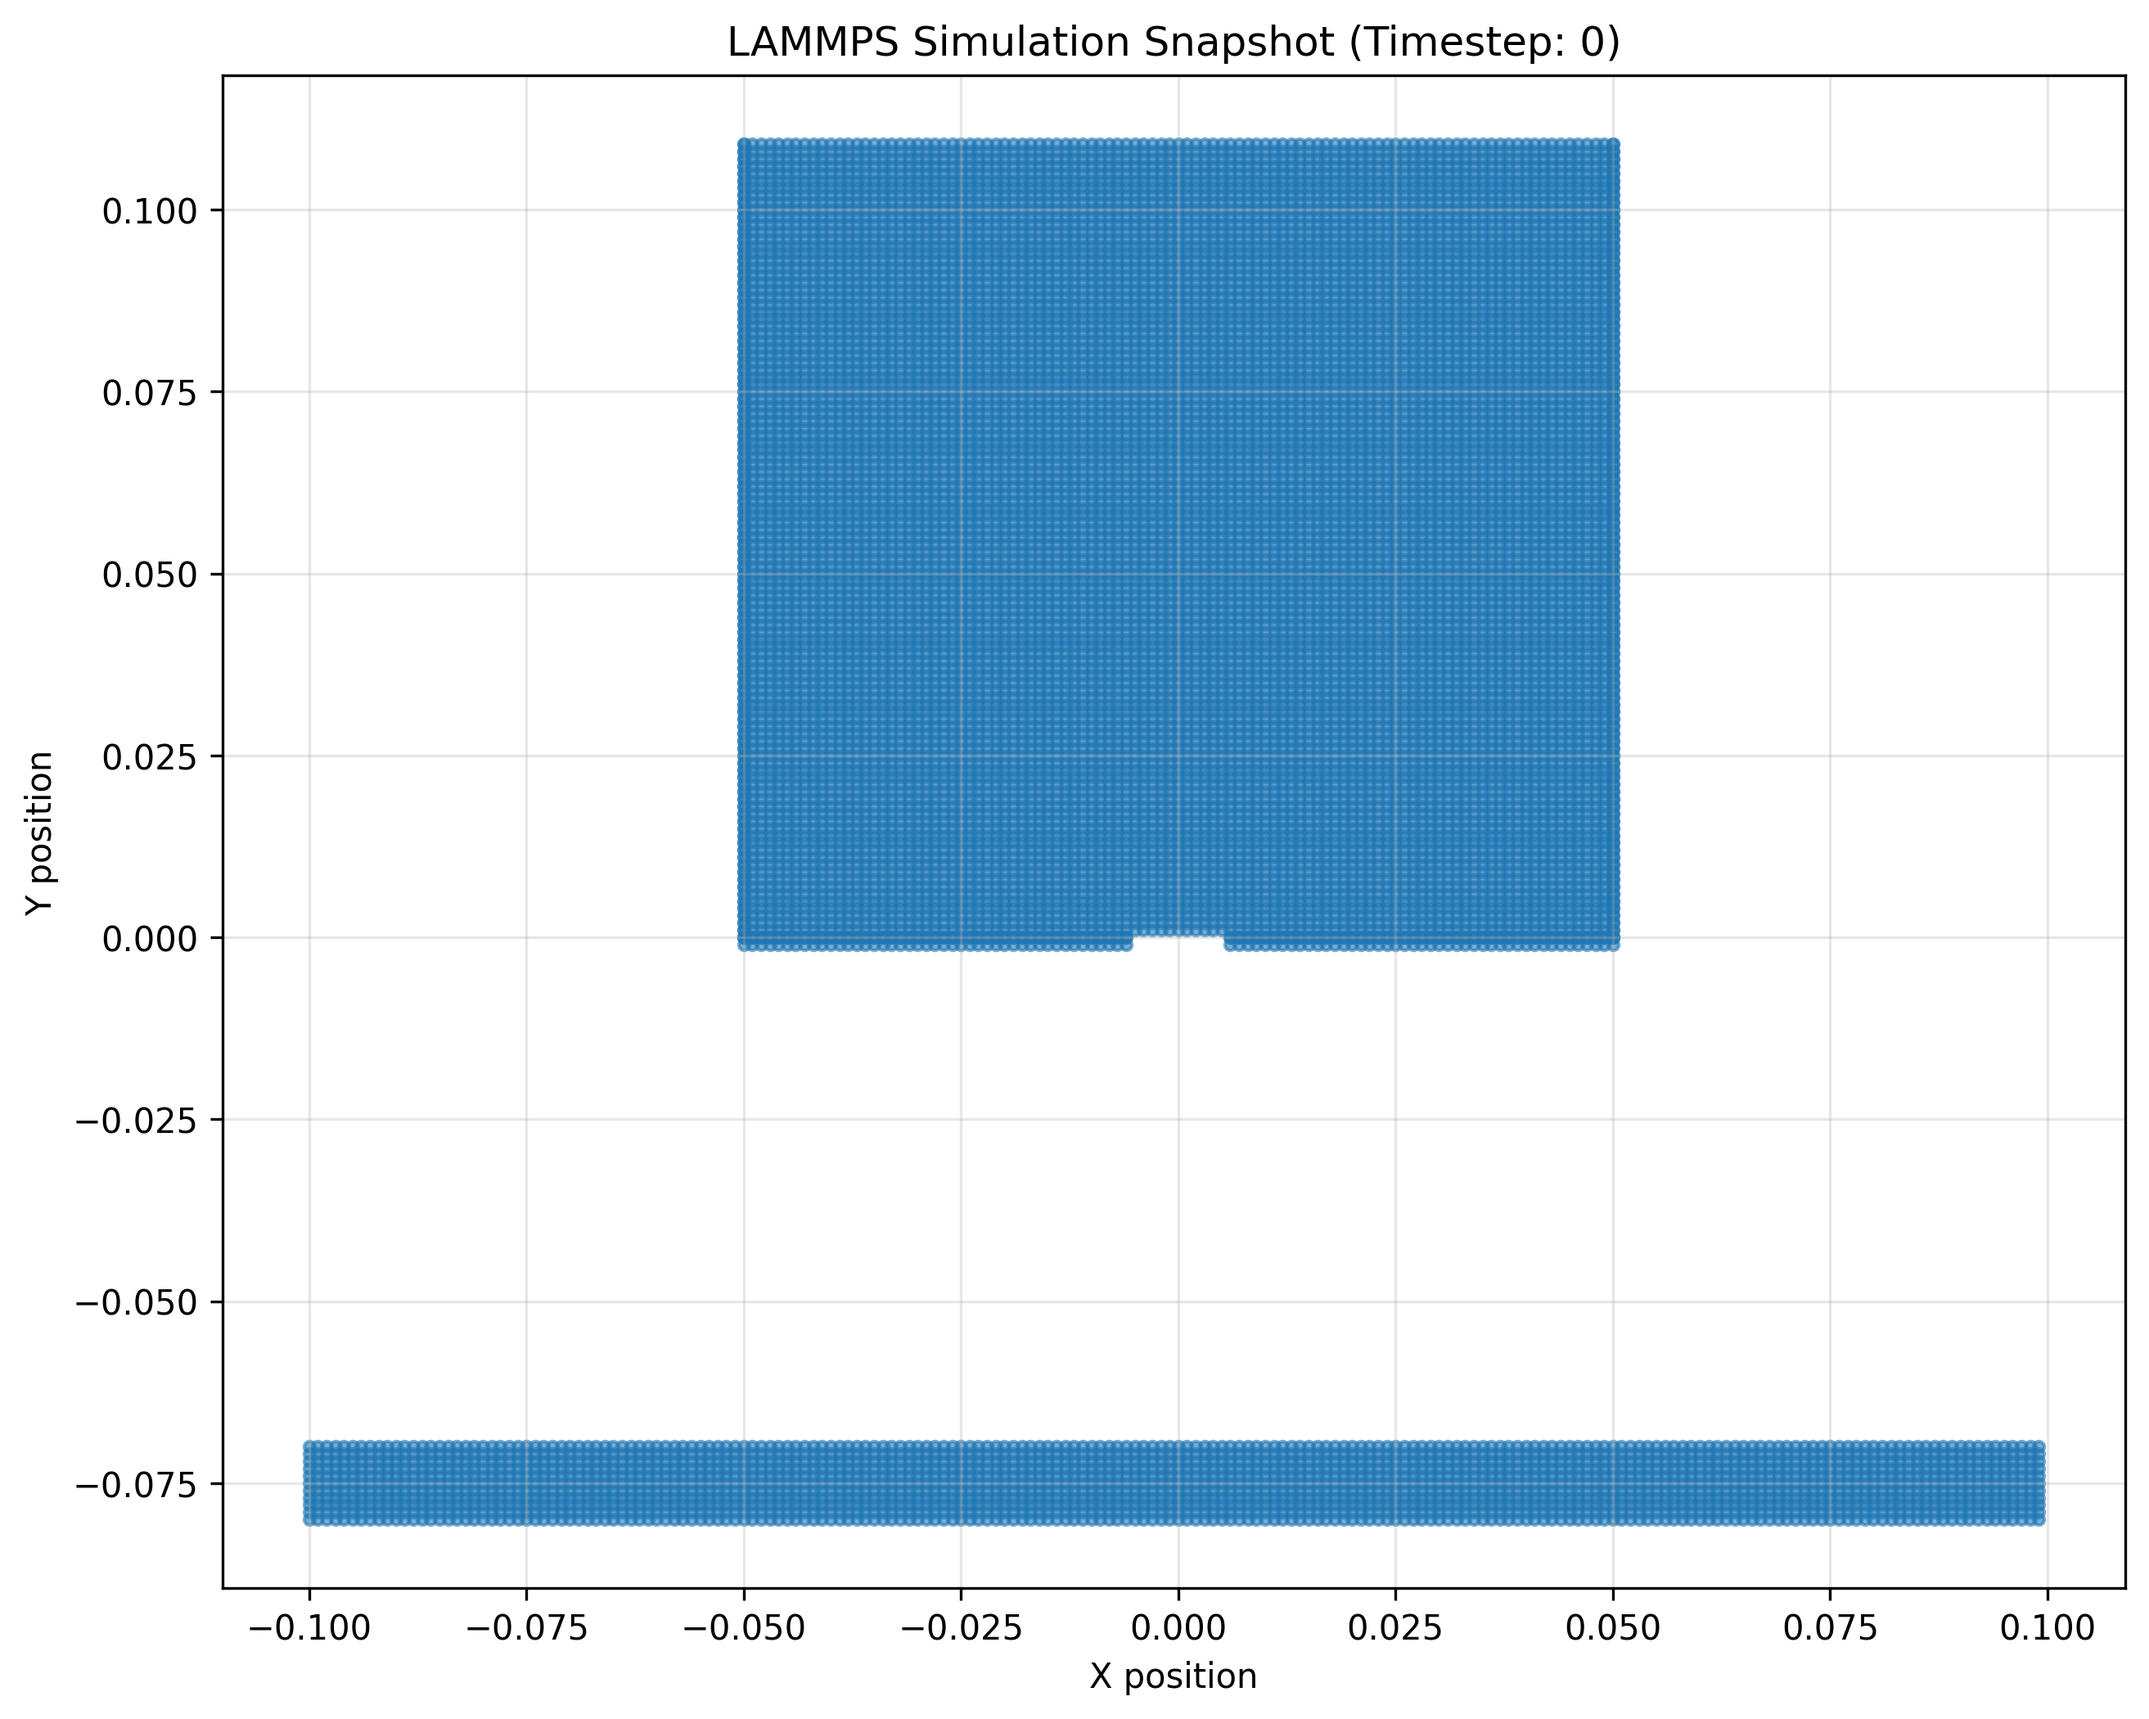
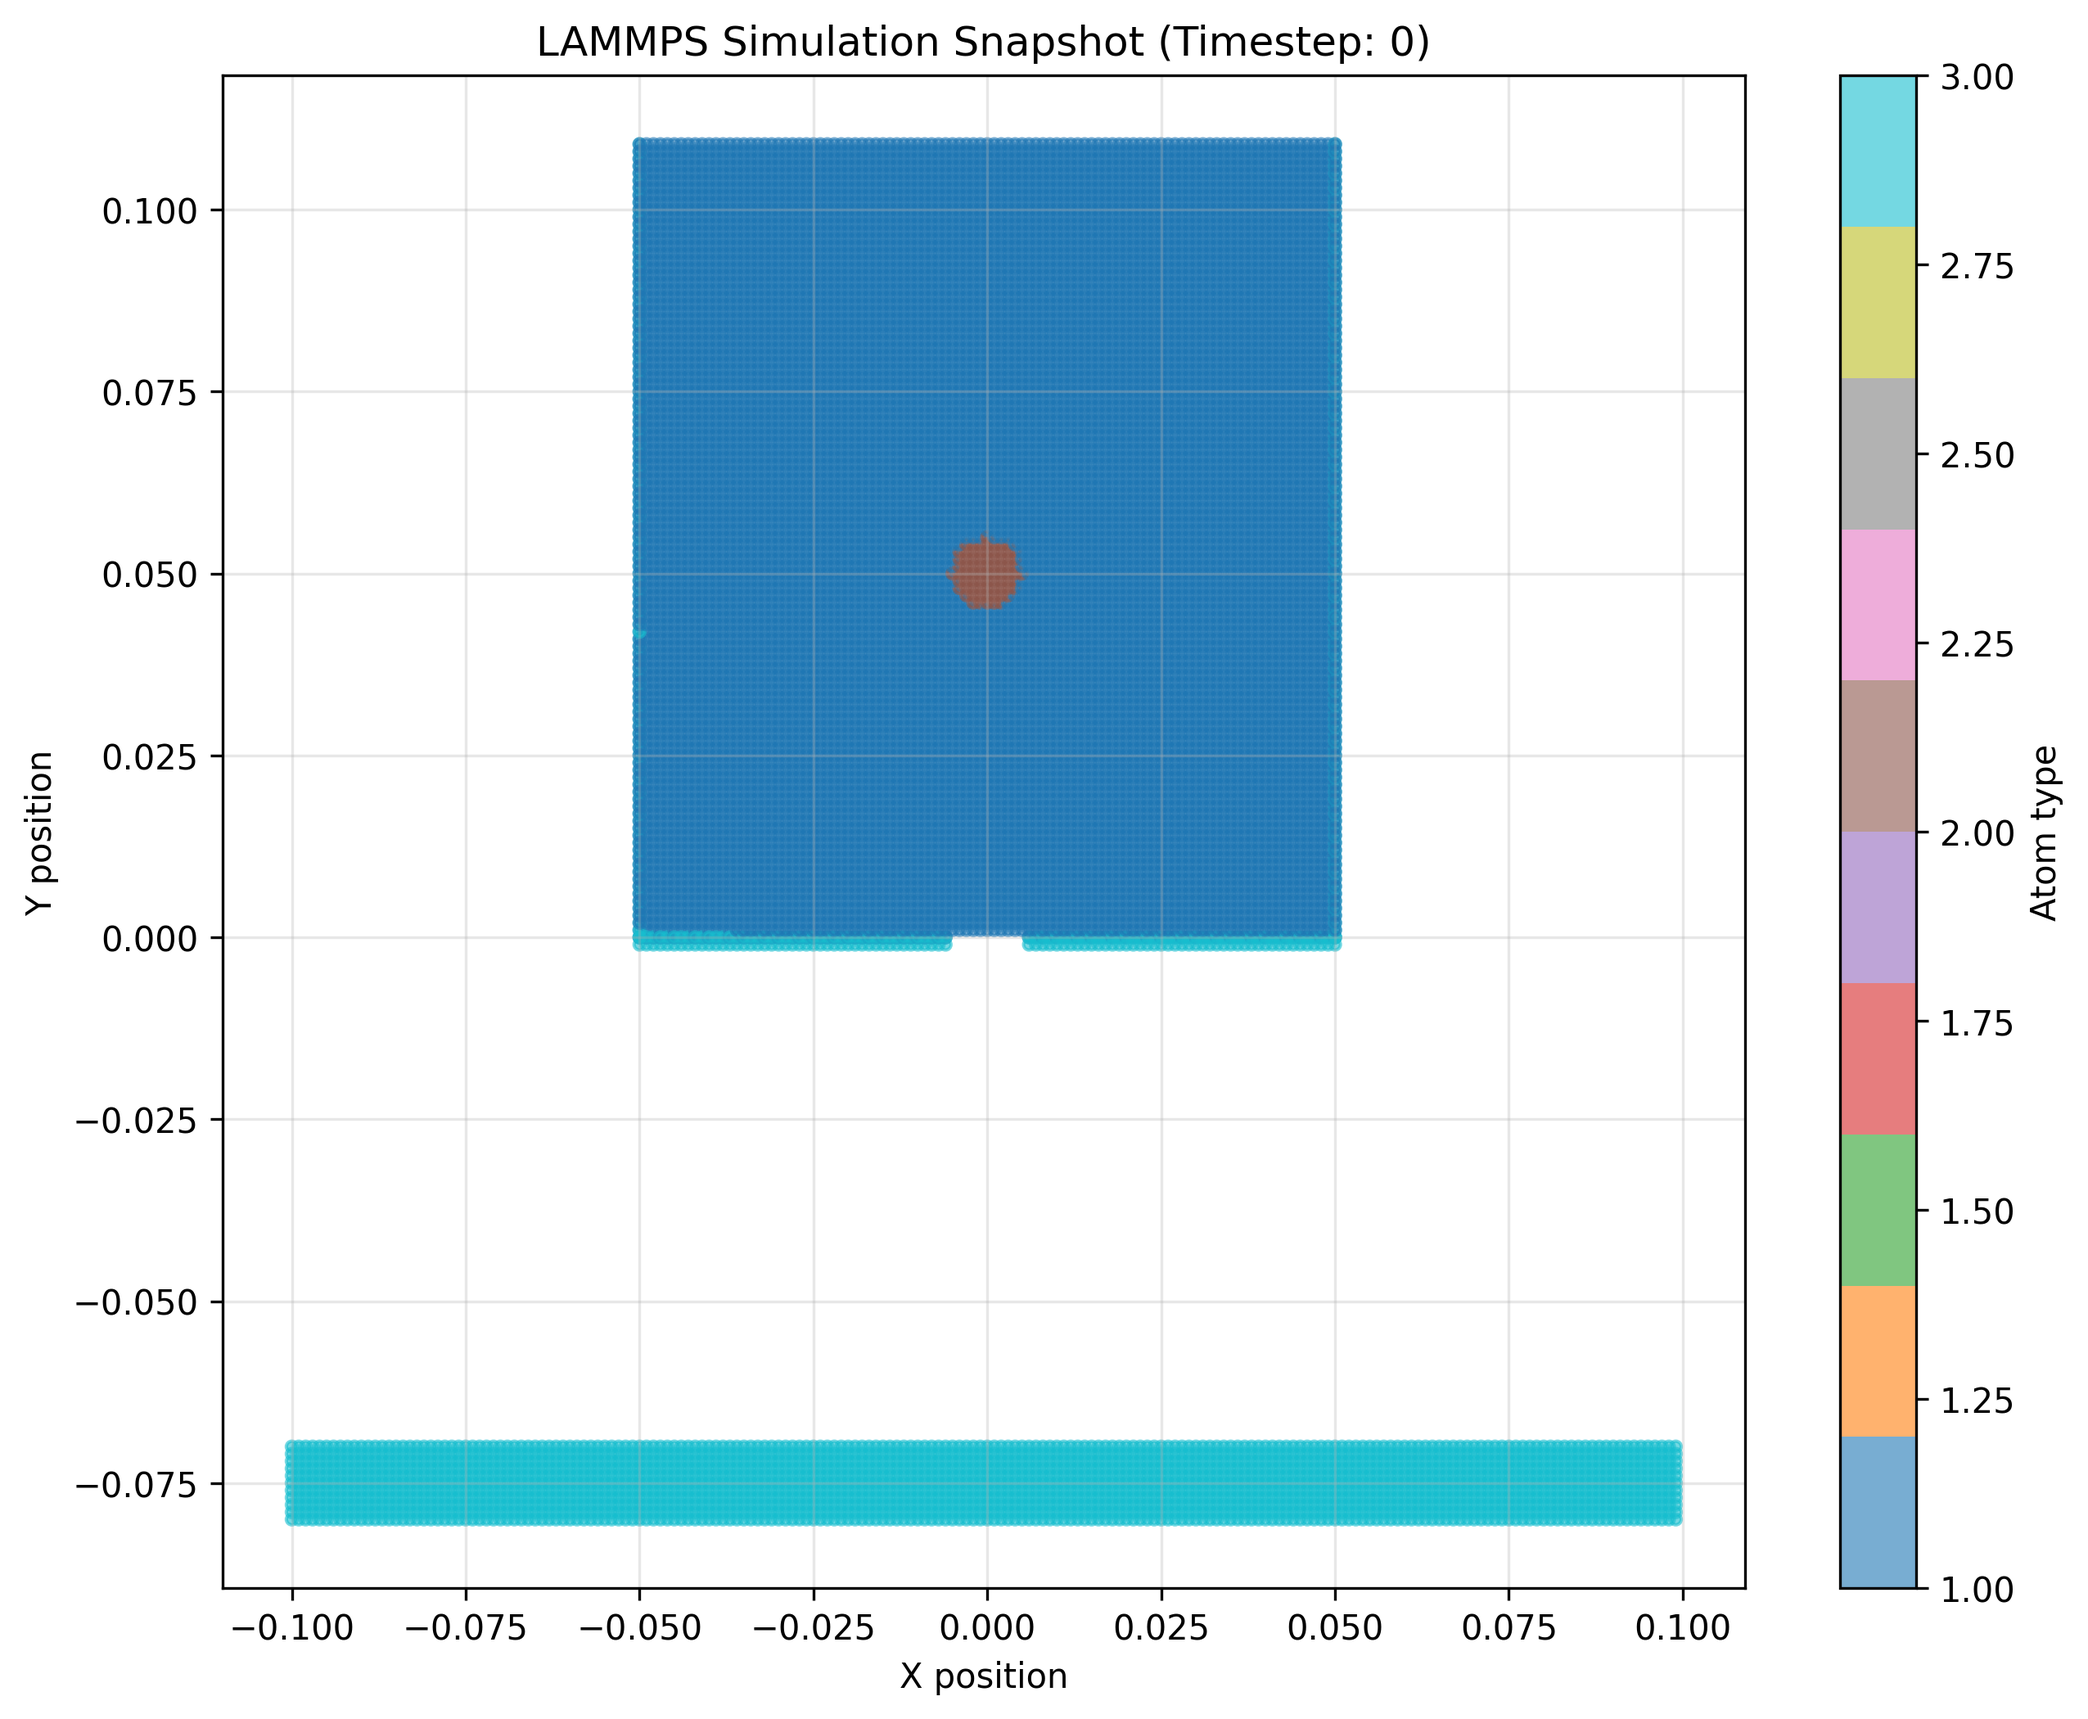
More visualizations

diff --git a/src/explore_data.py b/src/explore_data.py
@@ -1,6 +1,7 @@
 import os
 import numpy as np
 import matplotlib.pyplot as plt
+from matplotlib import animation
 from pathlib import Path
 
 class LAMMPSDumpReader:
@@ -52,7 +53,15 @@ class LAMMPSDumpReader:
         
         # Assuming the first three columns are atom ID, type, x, y, z
         if self.atoms.shape[1] >= 4:  # Make sure we have at least x, y, z coordinates
-            plt.scatter(self.atoms[:, 2], self.atoms[:, 3], s=10, alpha=0.6)
+            x = self.atoms[:, 2]
+            y = self.atoms[:, 3]
+
+            # Color points by atom type when available (no colorbar)
+            if self.atoms.shape[1] >= 2:
+                atom_types = self.atoms[:, 1]
+                plt.scatter(x, y, c=atom_types, s=10, alpha=0.6, cmap="tab10")
+            else:
+                plt.scatter(x, y, s=10, alpha=0.6)
             plt.title(f'LAMMPS Simulation Snapshot (Timestep: {self.timestep})')
             plt.xlabel('X position')
             plt.ylabel('Y position')
@@ -68,33 +77,81 @@ def main():
     # Get the data directory
     data_dir = Path(__file__).parent.parent / 'data'
     
-    # List all LAMMPS dump files
-    dump_files = sorted(list(data_dir.glob('dump.*.LAMMPS')))
+    # List all LAMMPS dump files, sorted by numeric timestep
+    def timestep_from_path(path: Path) -> int:
+        name = path.name
+        try:
+            parts = name.split(".")
+            return int(parts[1])
+        except (IndexError, ValueError):
+            return 0
+
+    dump_files = sorted(data_dir.glob('dump.*.LAMMPS'), key=timestep_from_path)
     
     if not dump_files:
         print("No LAMMPS dump files found in the data directory.")
         return
-    
+
     print(f"Found {len(dump_files)} LAMMPS dump files.")
-    
-    # Read and visualize the first and last frames
-    for filepath in [dump_files[0], dump_files[-1]]:
-        print(f"\nAnalyzing {filepath.name}")
+
+    # Read all frames into memory (timestep, atoms)
+    frames = []
+    for filepath in dump_files:
+        print(f"Analyzing {filepath.name}")
         reader = LAMMPSDumpReader(filepath)
         atoms = reader.read()
         print(f"Timestep: {reader.timestep}")
         print(f"Number of atoms: {reader.natoms}")
         print(f"Box bounds:\n{reader.box_bounds}")
         print(f"Atom data shape: {atoms.shape}")
-        
-        # Create output directory for visualizations
-        output_dir = Path(__file__).parent.parent / 'output'
-        output_dir.mkdir(exist_ok=True)
-        
-        # Save visualization
-        vis_path = output_dir / f"visualization_{filepath.stem}.png"
-        reader.visualize(save_path=str(vis_path))
-        print(f"Visualization saved to {vis_path}")
+        frames.append(reader)
+
+    # Create output directory
+    output_dir = Path(__file__).parent.parent / 'output'
+    output_dir.mkdir(exist_ok=True)
+
+    # Set up animation: ground-truth scatter colored by atom type
+    fig, ax = plt.subplots(figsize=(10, 8))
+
+    def init():
+        ax.clear()
+        ax.set_xlabel('X position')
+        ax.set_ylabel('Y position')
+        ax.grid(True, alpha=0.3)
+        return []
+
+    def update(frame_idx):
+        ax.clear()
+        reader = frames[frame_idx]
+        atoms = reader.atoms
+        if atoms is not None and atoms.shape[1] >= 4:
+            x = atoms[:, 2]
+            y = atoms[:, 3]
+            if atoms.shape[1] >= 2:
+                atom_types = atoms[:, 1]
+                ax.scatter(x, y, c=atom_types, s=10, alpha=0.6, cmap='tab10')
+            else:
+                ax.scatter(x, y, s=10, alpha=0.6)
+            ax.set_title(f"LAMMPS Simulation (Timestep: {reader.timestep})")
+            ax.set_xlabel('X position')
+            ax.set_ylabel('Y position')
+            ax.grid(True, alpha=0.3)
+        return []
+
+    anim = animation.FuncAnimation(
+        fig,
+        update,
+        init_func=init,
+        frames=len(frames),
+        interval=300,
+        blit=False,
+    )
+
+    gif_path = output_dir / 'lammps_simulation.gif'
+    anim.save(gif_path, writer=animation.PillowWriter(fps=4))
+    plt.close(fig)
+
+    print(f"Simulation GIF saved to {gif_path}")
 
 if __name__ == "__main__":
     main()

diff --git a/README.md b/README.md
@@ -62,15 +62,13 @@ The data consists of LAMMPS dump files in the `data` directory. Each file repres
 
 This section provides a visual walkthrough of the project pipeline, from raw LAMMPS data to trained model predictions.
 
-### 1. Raw LAMMPS Data
+### 1. Raw LAMMPS Data (extrusion process)
 
-We start with LAMMPS dump files containing particle positions over time. Here are visualizations of the first and last frames:
+We start with LAMMPS dump files containing particle positions over time.
 
-#### Initial Frame (t=0)
-![Initial Frame](output/visualization_dump.0.png)
+![Simulation GIF](output/lammps_simulation.gif)
 
-#### Frame at t=9000
-![Later Frame](output/visualization_dump.9000.png)
+
 
 ### 2. Data Preprocessing
 
@@ -98,6 +96,8 @@ Epoch 02 | train_loss=0.098765 | val_loss=0.087654
 Predicted frame resembles a fading shadow.
 
 Future work will focus on swapping out CNNs for GNNs, RNNs and PINNs.
+
+See Postmortem for more details.
 
 ### How to Reproduce
 
